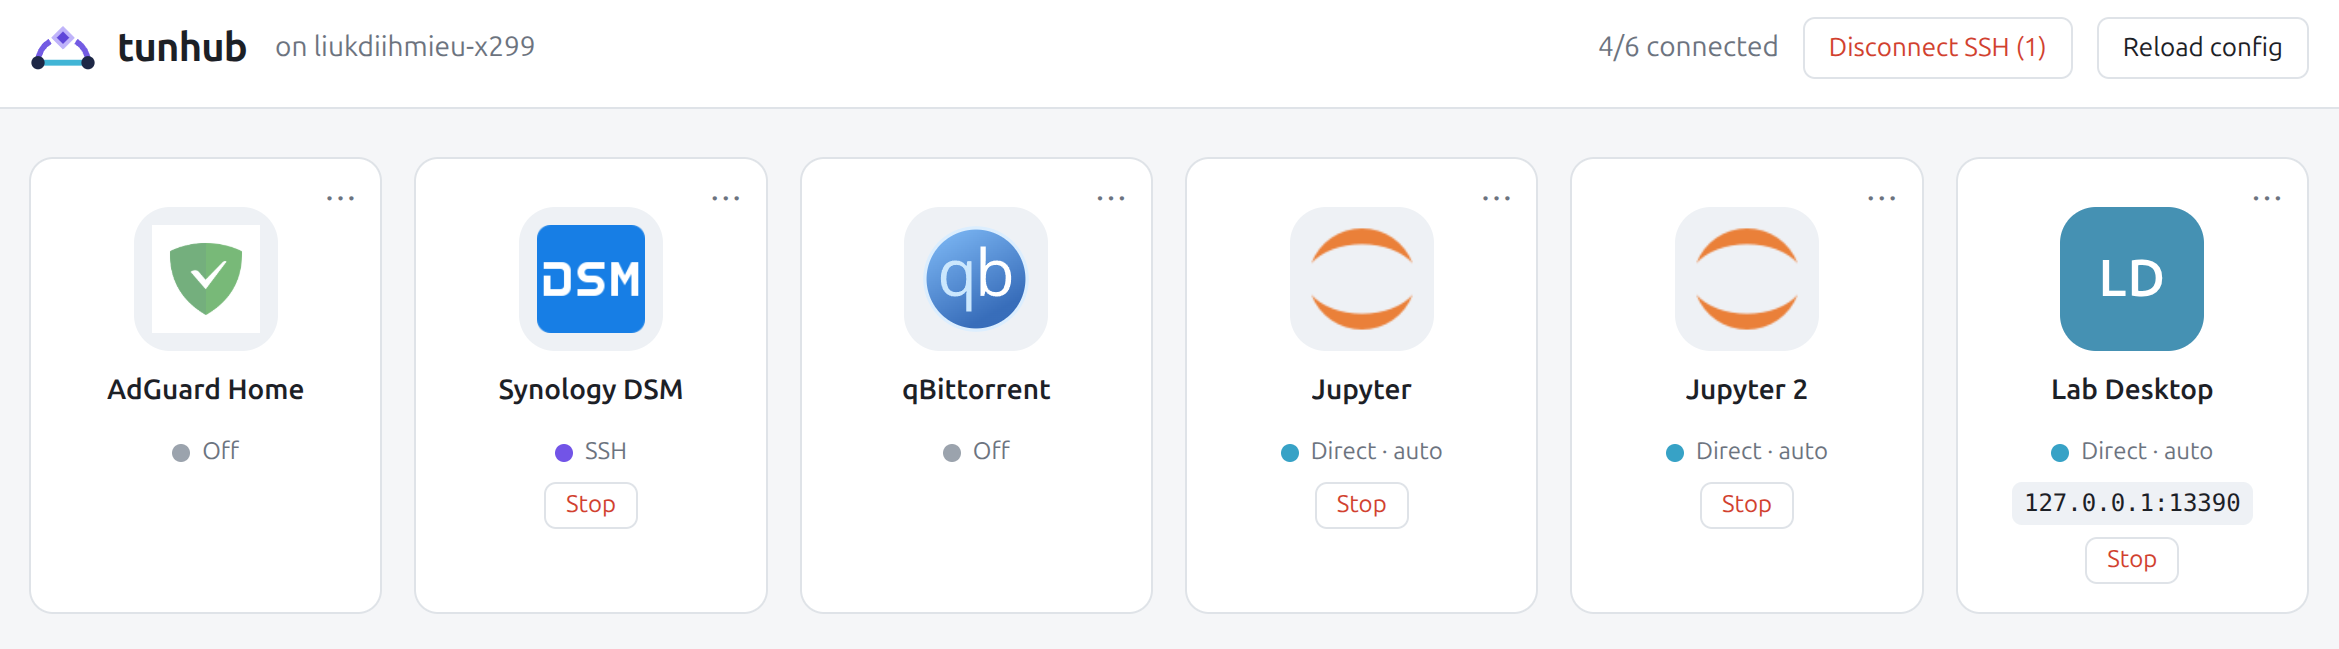
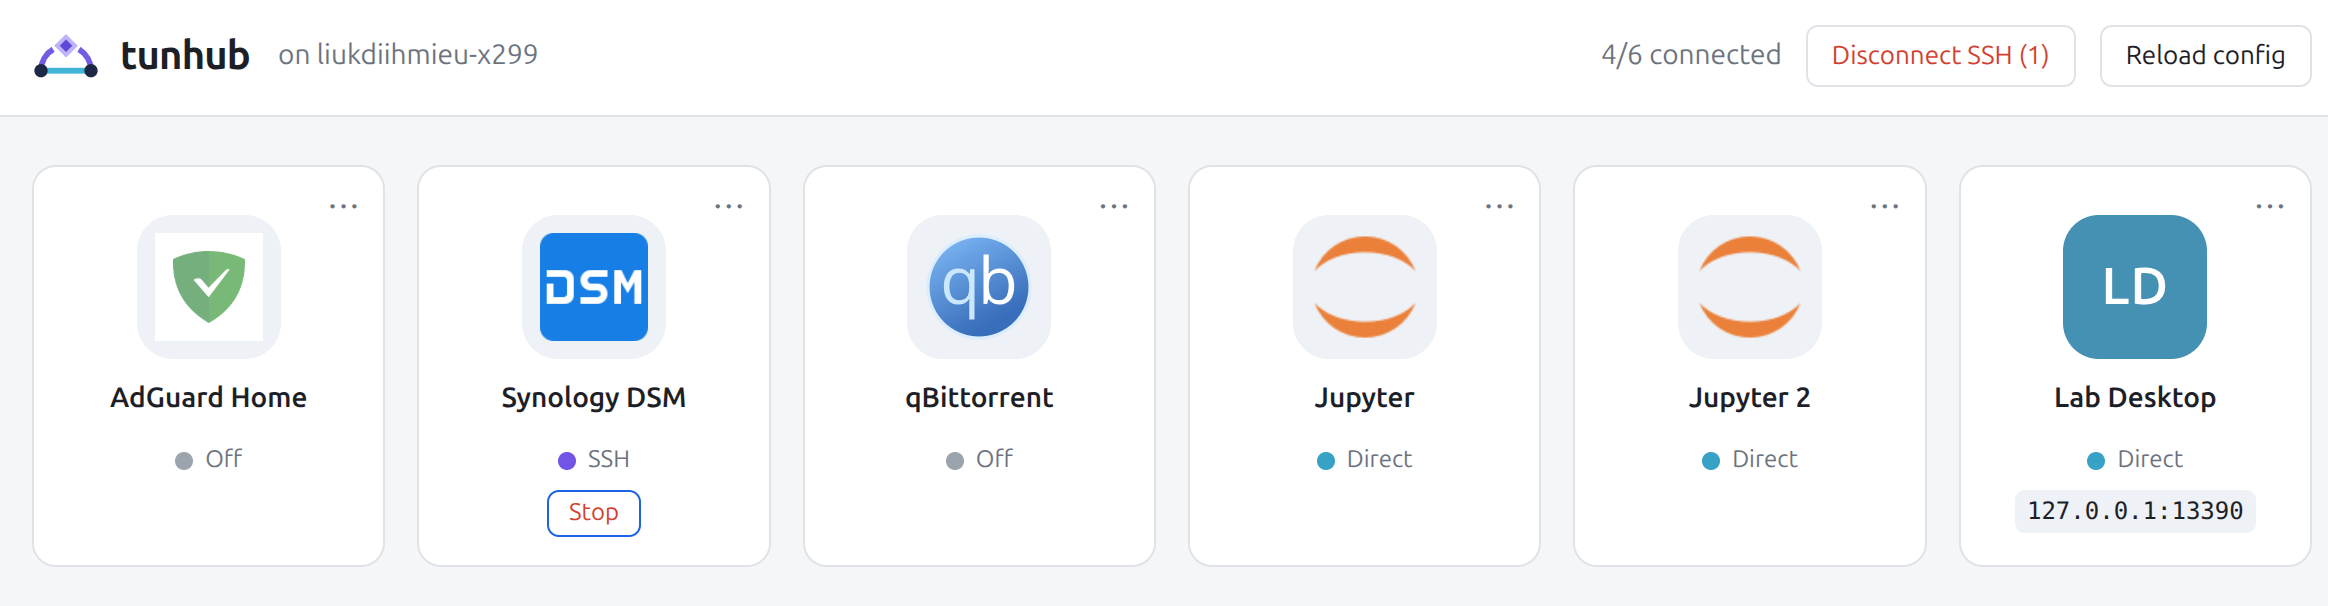
README: screenshots and demo GIF for the two-state model
The tiles no longer say 'auto' and Stop only appears on services that are
on (ssh). The GIF uses one shared 256-colour palette, which fixes the
colour shifts of the per-frame 128-colour version, and is smaller.

[skip ci]

diff --git a/README.md b/README.md
@@ -13,7 +13,7 @@
 [![License: GPL v3+](https://img.shields.io/badge/license-GPL--3.0--or--later-green)](LICENSE)
 
 <p align="center">
-  <img src="docs/images/demo.gif" alt="Opening AdGuard from a browser favourite: tunhub starts the SSH tunnel by itself (the tile turns from grey to amber to purple) and the AdGuard page opens" width="764">
+  <img src="docs/images/demo.gif" alt="Opening AdGuard from a browser favourite: tunhub starts the SSH tunnel by itself (the tile turns from grey to amber to purple) and the AdGuard page opens" width="760">
   <br><sub>A plain browser favourite opens AdGuard; tunhub starts the SSH tunnel on the way.</sub>
 </p>
 
